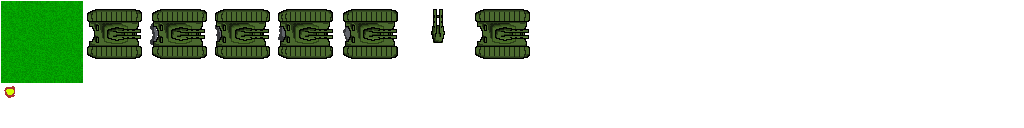
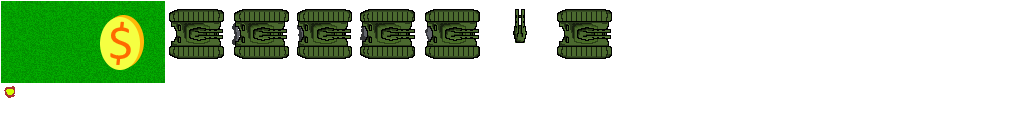
Lesson 3. Домашнее задание.

Changed region(s): [[0.0625, 0.0, 0.625, 0.6562]]

diff --git a/core/src/com/dune/game/core/BattleMap.java b/core/src/com/dune/game/core/BattleMap.java
@@ -3,19 +3,57 @@ package com.dune.game.core;
 import com.badlogic.gdx.graphics.g2d.SpriteBatch;
 import com.badlogic.gdx.graphics.g2d.TextureAtlas;
 import com.badlogic.gdx.graphics.g2d.TextureRegion;
+import com.badlogic.gdx.math.MathUtils;
 
 public class BattleMap {
-    private TextureRegion grassTexture;
 
-    public BattleMap() {
+    private TextureRegion grassTexture, coinTexture;
+    private int screenWidth, screenHeight;
+    private int[][] groundType;
+    private int x, y;
+
+    public int[][] getGroundType() {
+        return groundType;
+    }
+
+    public BattleMap(int screenWidth, int screenHeight) {
+        this.screenWidth=screenWidth;
+        this.screenHeight=screenHeight;
+        groundType = new int[screenWidth][screenHeight];
         this.grassTexture = Assets.getInstance().getAtlas().findRegion("grass");
+        this.coinTexture = Assets.getInstance().getAtlas().findRegion("coin");
+        generate();
+    }
+
+    private void generate() {
+        for (y = 0; y < screenHeight; y++) {
+            for (x = 0; x < screenWidth; x++) {
+                if (MathUtils.random(10) < 9) {
+                    groundType[x][y] = 0;
+                } else {
+                    groundType[x][y] = 1;
+                }
+            }
+        }
+    }
+
+    public void update (float dt){
+
     }
 
     public void render(SpriteBatch batch) {
-        for (int i = 0; i < 16; i++) {
-            for (int j = 0; j < 9; j++) {
-                batch.draw(grassTexture, i * 80, j * 80);
+        for (y = 0; y < screenHeight; y++) {
+            for (x = 0; x < screenWidth; x++) {
+                if (groundType[x][y] == 0) {
+                    batch.draw(grassTexture, x * 80, y * 80);
+                } else {
+                    batch.draw(coinTexture, x * 80, y * 80);
+                }
             }
         }
+    }
+
+    public void pickUp (int blockX, int blockY){
+        groundType [blockX][blockY] = 0;
     }
 }

diff --git a/core/src/com/dune/game/core/GameController.java b/core/src/com/dune/game/core/GameController.java
@@ -1,12 +1,14 @@
 package com.dune.game.core;
 
-import com.badlogic.gdx.Gdx;
-import com.badlogic.gdx.graphics.g2d.TextureAtlas;
+import com.badlogic.gdx.math.Vector2;
 
 public class GameController {
     private BattleMap map;
     private ProjectilesController projectilesController;
     private Tank tank;
+    private Vector2 tmp;
+
+    private int screenWidth, screenHeight;
 
     public Tank getTank() {
         return tank;
@@ -21,19 +23,35 @@ public class GameController {
     }
 
     // Инициализация игровой логики
-    public GameController() {
+    public GameController(int screenWidth, int screenHeight) {
         Assets.getInstance().loadAssets();
-        this.map = new BattleMap();
+        this.screenWidth=screenWidth;
+        this.screenHeight=screenHeight;
+        this.map = new BattleMap(screenWidth, screenHeight);
         this.projectilesController = new ProjectilesController(this);
-        this.tank = new Tank(this, 200, 200);;
+        this.tank = new Tank(this, 200, 200);
+        tmp = new Vector2();
     }
 
     public void update(float dt) {
         tank.update(dt);
         projectilesController.update(dt);
+        map.update(dt);
         checkCollisions(dt);
     }
 
     public void checkCollisions(float dt) {
+        int[][] groundTypes = map.getGroundType();
+        for (int y = 0; y < screenHeight; y++) {
+            for (int x = 0; x < screenWidth; x++) {
+                if (groundTypes[x][y]==1){
+                    tmp.set(x * 80 + 40, y * 80 +40);
+                    if (tmp.dst(tank.getPosition())<40.0f){
+                        map.pickUp(x, y);
+                    }
+                }
+            }
+        }
+
     }
 }

diff --git a/core/src/com/dune/game/screens/GameScreen.java b/core/src/com/dune/game/screens/GameScreen.java
@@ -5,6 +5,9 @@ import com.dune.game.core.GameController;
 import com.dune.game.core.WorldRenderer;
 
 public class GameScreen extends AbstractScreen {
+    private final int SCREEN_WIDTH = 16;
+    private final int SCREEN_HEIGHT = 9;
+
     private SpriteBatch batch;
     private GameController gameController;
     private WorldRenderer worldRenderer;
@@ -15,7 +18,7 @@ public class GameScreen extends AbstractScreen {
 
     @Override
     public void show() {
-        this.gameController = new GameController();
+        this.gameController = new GameController(SCREEN_WIDTH, SCREEN_HEIGHT);
         this.worldRenderer = new WorldRenderer(batch, gameController);
     }
 
